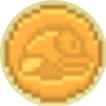
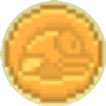
Update scoreboard and medal

diff --git a/src/fiftybird/ScreenPlay.js b/src/fiftybird/ScreenPlay.js
@@ -56,7 +56,6 @@ var ScreenPlay = cc.Layer.extend({
         this.initBackground();
         this.addKeyboardListener();
     },
-
     update: function (dt) {
         if (gameController._state === GC.GAME_STATE.PLAY) {
             this.movingBackground(dt);
@@ -76,7 +75,6 @@ var ScreenPlay = cc.Layer.extend({
             this._pause.setVisible(false);
         }
     },
-
     initBackground: function () {
         this._background = Background.getOrCreate(playLayer);
         this._backgroundWidth = this._background.width;
@@ -104,7 +102,6 @@ var ScreenPlay = cc.Layer.extend({
         this._pause.enableOutline(cc.color(0, 0, 0), 2);
         this.addChild(this._pause, 1000);
     },
-
     checkCollision: function () {
         let pipe = null;
         let bird = this._bird;
@@ -128,7 +125,6 @@ var ScreenPlay = cc.Layer.extend({
             this.onGameOver();
         }
     },
-
     movingBackground: function(dt) {
         let movingDist = dt * GC.BACKGROUND_SPEED;
         let filled = false;
@@ -153,7 +149,6 @@ var ScreenPlay = cc.Layer.extend({
             bg.x = winSize.width;
         }
     },
-
     movingGround: function(dt) {
         let movingDist = dt * GC.GROUND_SPEED;
         let filled = false;
@@ -178,7 +173,6 @@ var ScreenPlay = cc.Layer.extend({
             g.x = winSize.width;
         }
     },
-
     spawnPipe: function (dt) {
         this._pipeTimer += dt * GC.SCROLL_SPEED;
         if (this._pipeTimer >= this._interval) {
@@ -202,7 +196,6 @@ var ScreenPlay = cc.Layer.extend({
             this._interval = GC.PIPE_MIN_INTERVAL + randomizer;
         }
     },
-
     movePipe: function (dt) {
         GC.CONTAINER.PIPES.forEach(pipe => {
             if (pipe.active) {
@@ -214,16 +207,13 @@ var ScreenPlay = cc.Layer.extend({
             }
         })
     },
-
     scoreCounting: function () {
         this.score += 0.5;
         this._score.setString(this.score);
     },
-
     birdMove: function (dt) {
         this._bird.move(dt);
     },
-
     addKeyboardListener:function(){
         if (cc.sys.capabilities.hasOwnProperty('keyboard')) {
             cc.eventManager.addListener({
@@ -256,7 +246,6 @@ var ScreenPlay = cc.Layer.extend({
             }, 0)
         }
     },
-
     collide:function (a, b) {
         var ax = a.x, ay = a.y, bx = b.x, by = b.y;
         // if (Math.abs(ax - bx) > MAX_CONTAINT_WIDTH || Math.abs(ay - by) > MAX_CONTAINT_HEIGHT)
@@ -266,21 +255,17 @@ var ScreenPlay = cc.Layer.extend({
         var bRect = b.collideRect(bx, by);
         return cc.rectIntersectsRect(aRect, bRect);
     },
-
     onGameOver: function () {
         this._score.visible = false;
         overLayer.setVisible(true);
         overLayer.initTitle();
         gameController._state = GC.GAME_STATE.OVER;
     },
-
     onBirdJumpEffect: function () {
         // play sound effect
         var sound = cc.audioEngine.playEffect(res.jump_wav);
     },
-
     onEnter: function () {
         this._super();
     },
-
 })

diff --git a/src/fiftybird/sprite/Medal.js b/src/fiftybird/sprite/Medal.js
@@ -1,0 +1,46 @@
+
+var Medal = cc.Sprite.extend({
+    active: true,
+    rank: 'invisible', // 'bronze', 'silver', 'gold', 'platinum
+
+    ctor: function(type) {
+        this._super(type);
+        this.setPosition(GC.MEDALX, GC.MEDALY);
+    },
+    destroy: function() {
+        this.visible = false;
+        this.active = false;
+    },
+})
+
+Medal.create = function(layer, score) {
+    let medal = null;
+    if (score < 10) {
+        console.log("invisible")
+        medal = new Medal(res.invisible_png);
+        var rect = cc.rect(0, 0, medal.width, medal.height);
+        medal.setTextureRect(rect);
+    } else if (10 <= score && score < 20) {
+        console.log('bronze');
+        medal = new Medal(res.bronze_png);
+        var rect = cc.rect(0, 0, medal.width, medal.height);
+        medal.setTextureRect(rect);
+    } else if (20 <= score && score < 30) {
+        console.log('sil');
+        medal = new Medal(res.silver_png);
+        var rect = cc.rect(0, 0, medal.width, medal.height);
+        medal.setTextureRect(rect);
+    } else if (30 <= score && score < 40) {
+        console.log('gold');
+        medal = new Medal(res.gold_png);
+        var rect = cc.rect(0, 0, medal.width, medal.height);
+        medal.setTextureRect(rect);
+    } else {
+        console.log('plat');
+        medal = new Medal(res.platinum_png);
+        var rect = cc.rect(0, 0, medal.width, medal.height);
+        medal.setTextureRect(rect);
+    }
+    layer.addChild(medal, 101);
+    return medal;
+}

diff --git a/src/fiftybird/GameOver.js b/src/fiftybird/GameOver.js
@@ -7,6 +7,7 @@ var GameOver = cc.Layer.extend({
     _title: null,
     _score: null,
     _scoreboard: null,
+    _medal: null,
 
     ctor: function () {
         this._super();
@@ -36,12 +37,17 @@ var GameOver = cc.Layer.extend({
         })
         this.addChild(this._title, 99);
 
-        this._score = new ccui.Text("Score: " + playLayer.score, res.flappy_ttf, 48)
+        this._score = new ccui.Text(playLayer.score, res.flappy_ttf, 64)
         this._score.attr({
-            x: GC.TITLEX,
-            y: GC.TITLEY - 80,
+            x: GC.SCOREOVERX,
+            y: GC.SCOREOVERY,
         })
+        this._score.enableOutline(cc.color(0, 0, 0), 3);
         this.addChild(this._score, 99);
+
+        this._scoreboard = ScoreBoard.create(overLayer);
+
+        this._medal = Medal.create(overLayer, playLayer.score);
     },
 
     addKeyboardListener:function(){

diff --git a/src/fiftybird/config/GameConfig.js b/src/fiftybird/config/GameConfig.js
@@ -39,7 +39,7 @@ GC.PAUSE_TEXT = "Press P to continue";
 GC.TITLE_HOME = "Fifty Bird";
 GC.ENTER = "Press Enter";
 GC.TITLEX = winSize.width / 2;
-GC.TITLEY = winSize.height * 2 / 3;
+GC.TITLEY = winSize.height * 3 / 4;
 GC.WIDTH = 1024;
 GC.HEIGHT = 768;
 GC.SCALE = 2.4;
@@ -65,3 +65,9 @@ GC.PIPE_WIDTH = 420;
 
 // over
 GC.TITLE_OVER = "GAME OVER";
+GC.SCOREBOARDX = winSize.width / 2;
+GC.SCOREBOARDY = winSize.height / 2;
+GC.SCOREOVERX = winSize.width / 2 * 1.31;
+GC.SCOREOVERY = winSize.height / 2;
+GC.MEDALX = winSize.width / 2 * 0.72;
+GC.MEDALY = winSize.height / 2 * 0.95;

diff --git a/src/fiftybird/sprite/ScoreBoard.js b/src/fiftybird/sprite/ScoreBoard.js
@@ -1,0 +1,20 @@
+
+var ScoreBoard = cc.Sprite.extend({
+    active: true,
+    ctor: function () {
+        this._super(res.scoreboard_png);
+        var rect = cc.rect(0, 0, this.width, this.height);
+        this.setTextureRect(rect);
+        this.setPosition(GC.SCOREBOARDX, GC.SCOREBOARDY);
+    },
+    destroy: function () {
+        this.visible = false;
+        this.active = false;
+    },
+})
+
+ScoreBoard.create = function (layer) {
+    var scoreboard = new ScoreBoard();
+    layer.addChild(scoreboard, 10);
+    return scoreboard;
+};

diff --git a/src/fiftybird/sprite/Bird.js b/src/fiftybird/sprite/Bird.js
@@ -26,9 +26,15 @@ var Bird = cc.Sprite.extend({
         this.y -= dt * this.speed;
         if (this.y < 0)
             this.y = 0;
+        this.rotate();
     },
     jump: function () {
         this.speed = GC.JUMP_SPEED; // JUMP_SPEED
+    },
+
+    rotate: function() {
+        this.rotation = this.speed / GC.GRAVITY * 90;
+        this.setRotation(this.rotation);
     },
 
     collideRect:function (x, y) {

diff --git a/src/fiftybird/Resources.js b/src/fiftybird/Resources.js
@@ -11,6 +11,7 @@ var res = {
     silver_png: 'res/fiftybird/silver.png',
     gold_png: 'res/fiftybird/gold.png',
     platinum_png: 'res/fiftybird/platinum.png',
+    invisible_png: 'res/fiftybird/invisible.png',
 
     jump_wav: 'res/fiftybird/jump.mp3',
     hurt_wav: 'res/fiftybird/hurt.wav',

diff --git a/main.js b/main.js
@@ -1,7 +1,7 @@
 
 var gv = gv || {};
 
-var DESIGN_RESOLUTION_WIDTH = 1024;
+var DESIGN_RESOLUTION_WIDTH = 1280;
 var DESIGN_RESOLUTION_HEIGHT = 768;
 cc.game.onStart = function () {
     if(!cc.sys.isNative) {

diff --git a/src/fiftybird/sprite/Pipe.js b/src/fiftybird/sprite/Pipe.js
@@ -1,7 +1,7 @@
 
 var Pipe = cc.Sprite.extend({
     active: true,
-    speed: GC.PIPE_SPEED,
+    speed: GC.PIPE_INTERVAL,
     passed: false,
 
     ctor: function() {

diff --git a/README.md b/README.md
@@ -1,5 +1,4 @@
 ## To do
-- Medal file added, but not implemented
 - Bird rotation
 
 ## Known bugs
